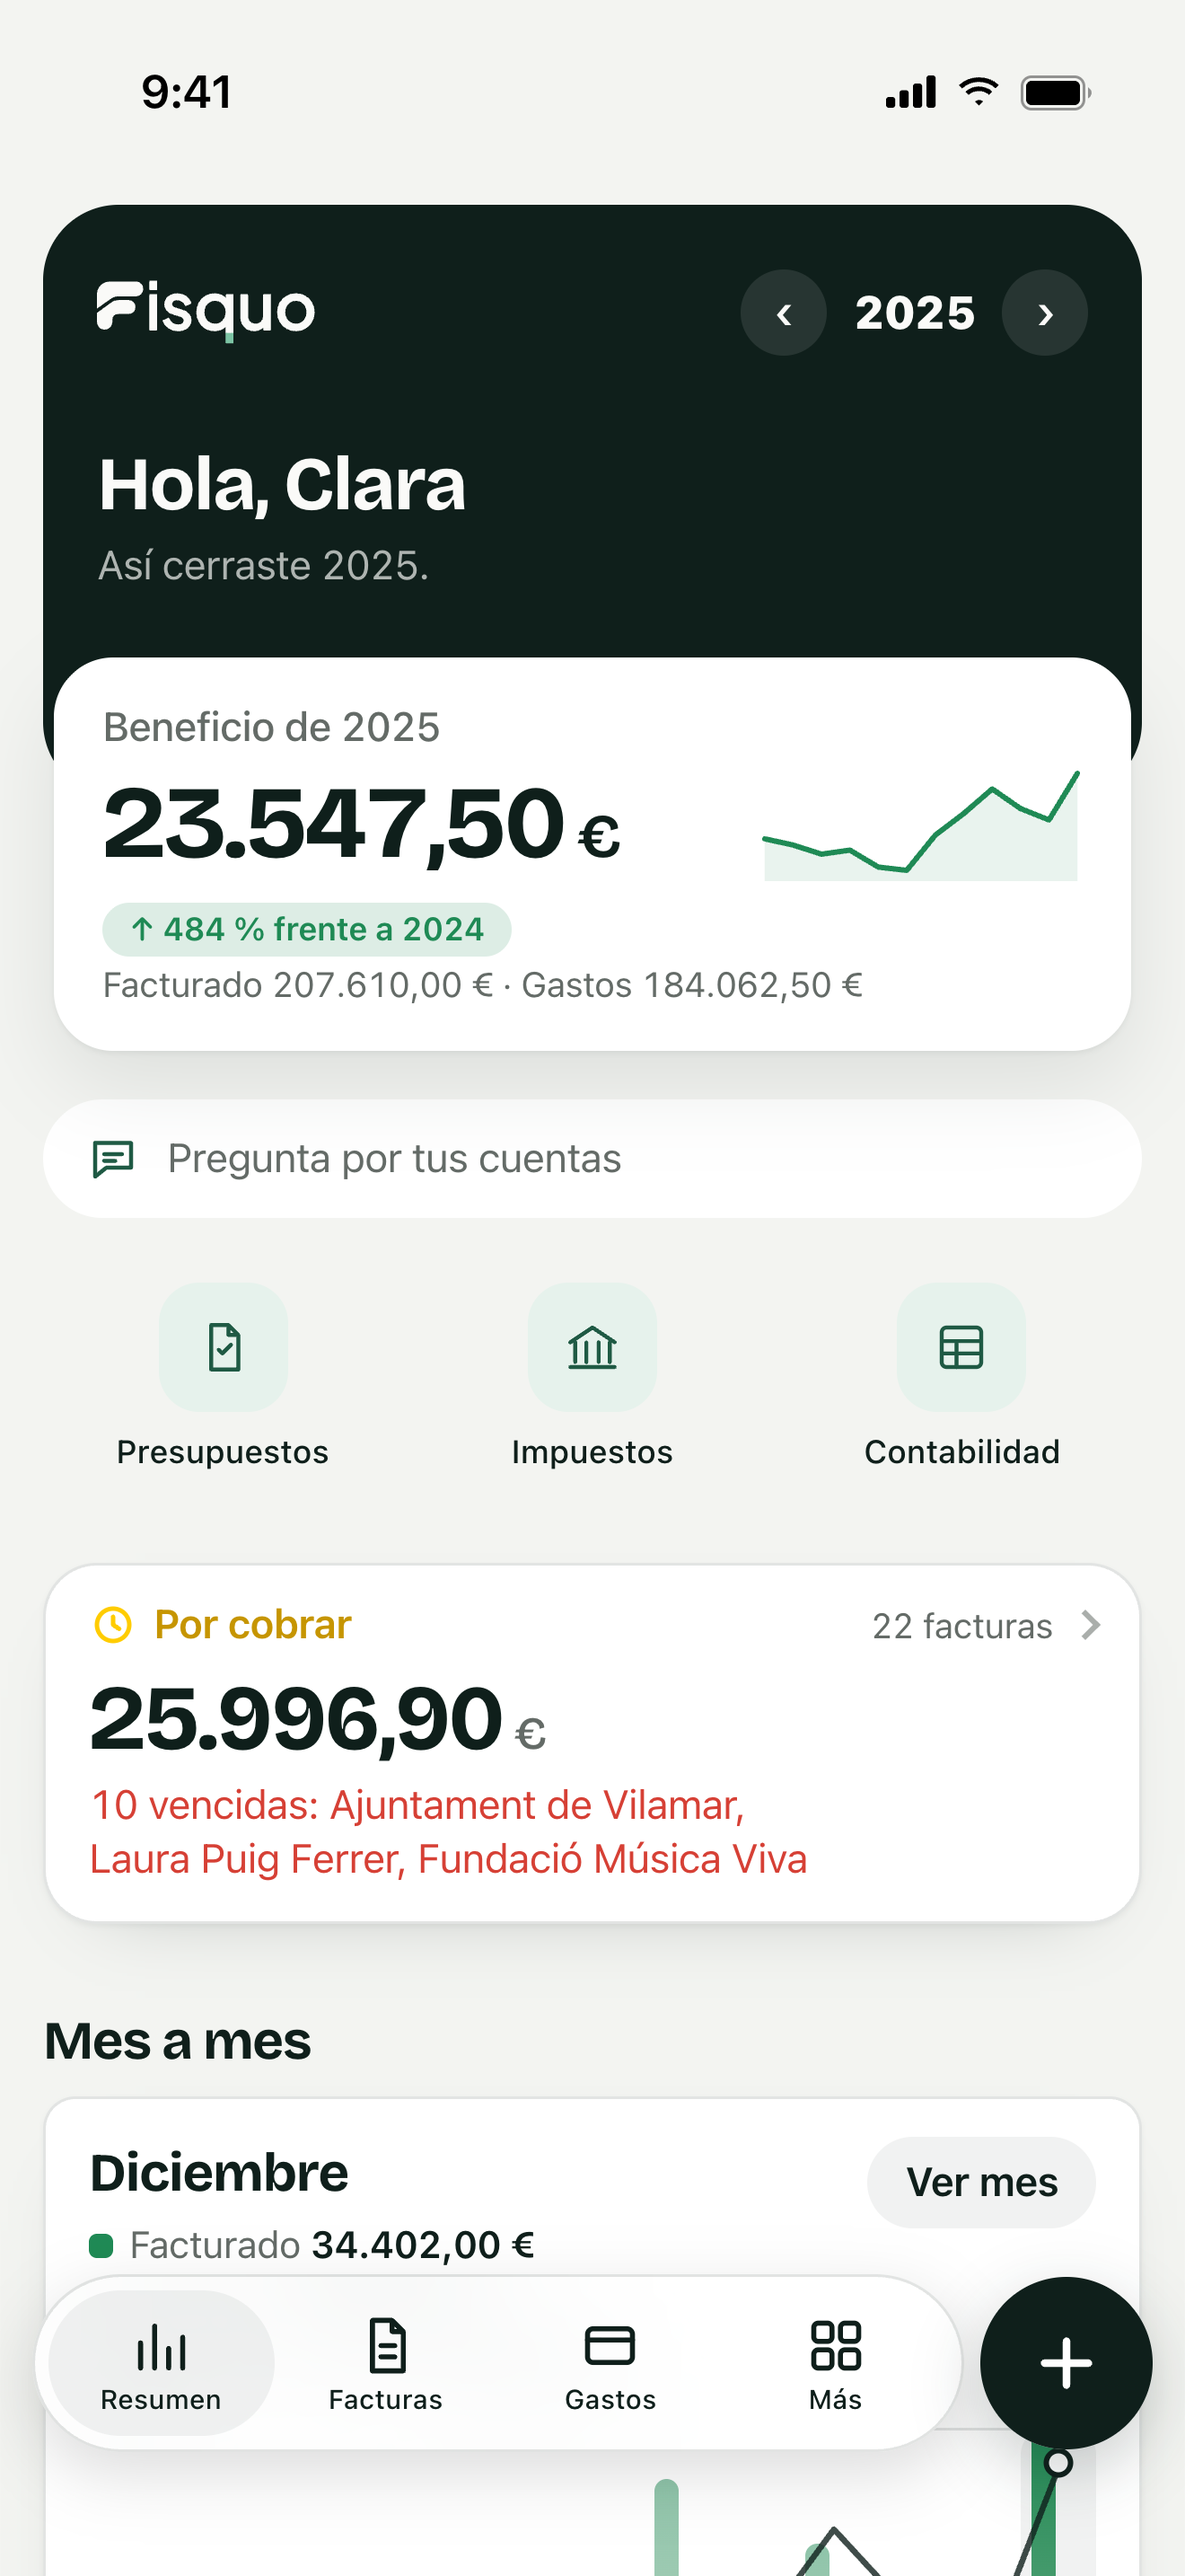
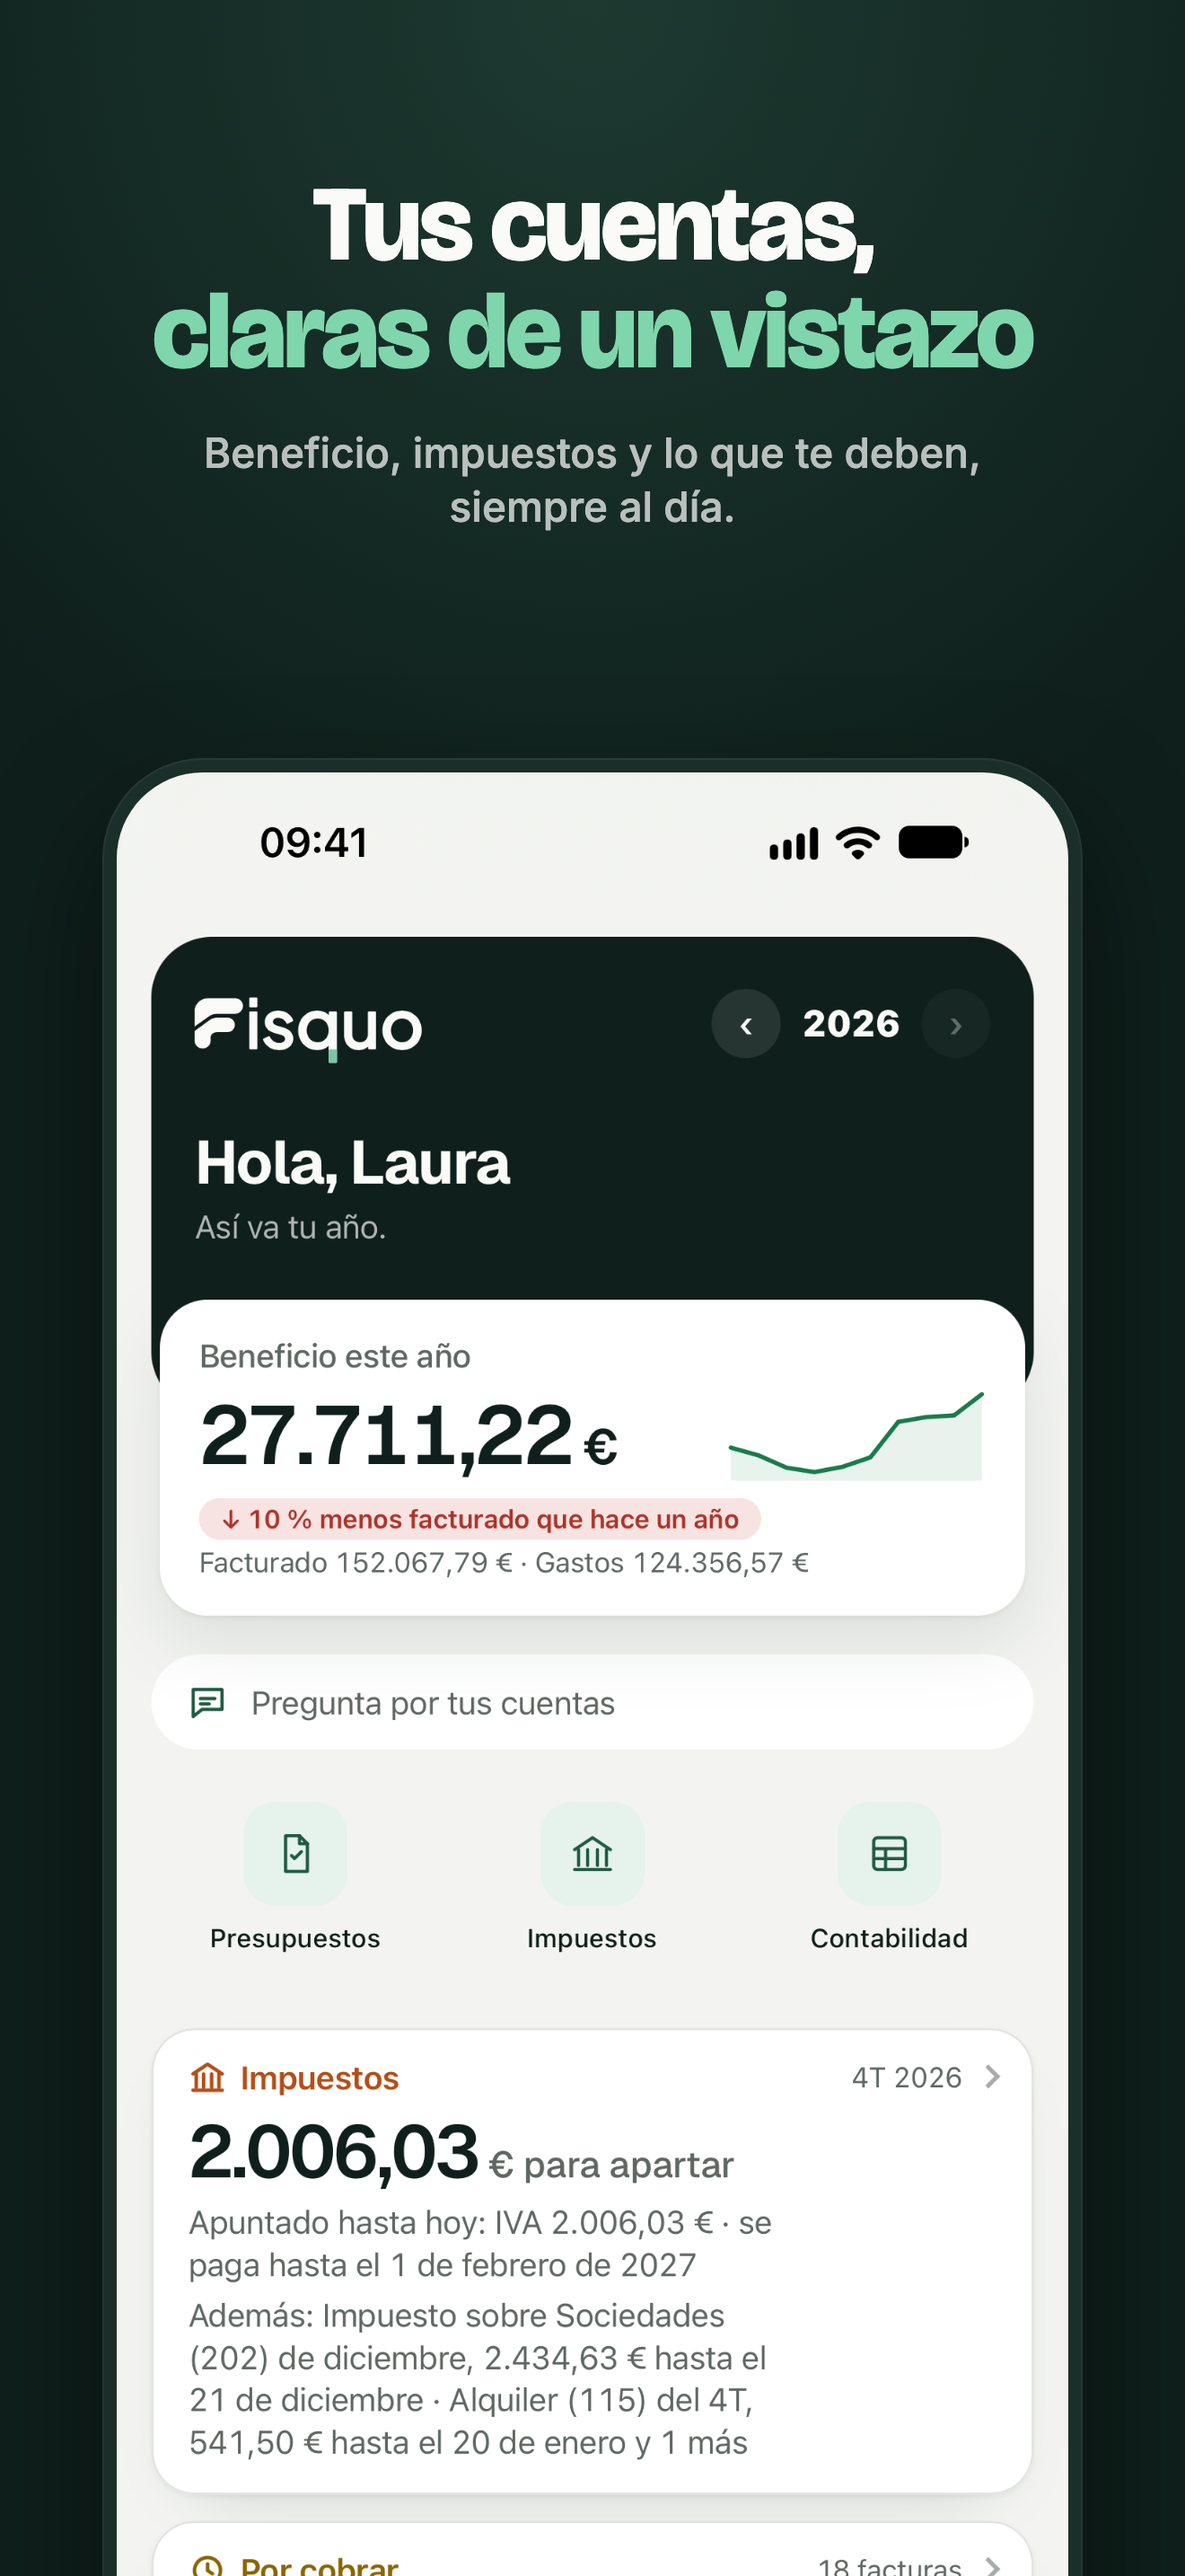
App Store: capturas nuevas con titular, hechas con la app de verdad

diff --git a/mobile/app-store/README.md b/mobile/app-store/README.md
@@ -6,7 +6,7 @@ Todo lo que hace falta para mandar la versión 1.0 de Fisquo para iPhone a revis
 - `ficha.md`: textos de la ficha (nombre, subtítulo, descripción, palabras clave, URLs, categoría, edad).
 - `revision.md`: notas para el revisor de Apple (en inglés), cuenta de demostración y respuestas de cumplimiento.
 - `privacidad.md`: qué marcar en «Privacidad de la app» de App Store Connect.
-- `capturas/`: 6 capturas de iPhone de 6,9" (1320 × 2868), las que pide Apple.
+- `capturas/`: 6 capturas de iPhone de 6,9" (1320 × 2868), las que pide Apple: la app de verdad con la demo, con titular (28-10-2026).
 
 ## Qué está hecho en la app (y por qué)
 
